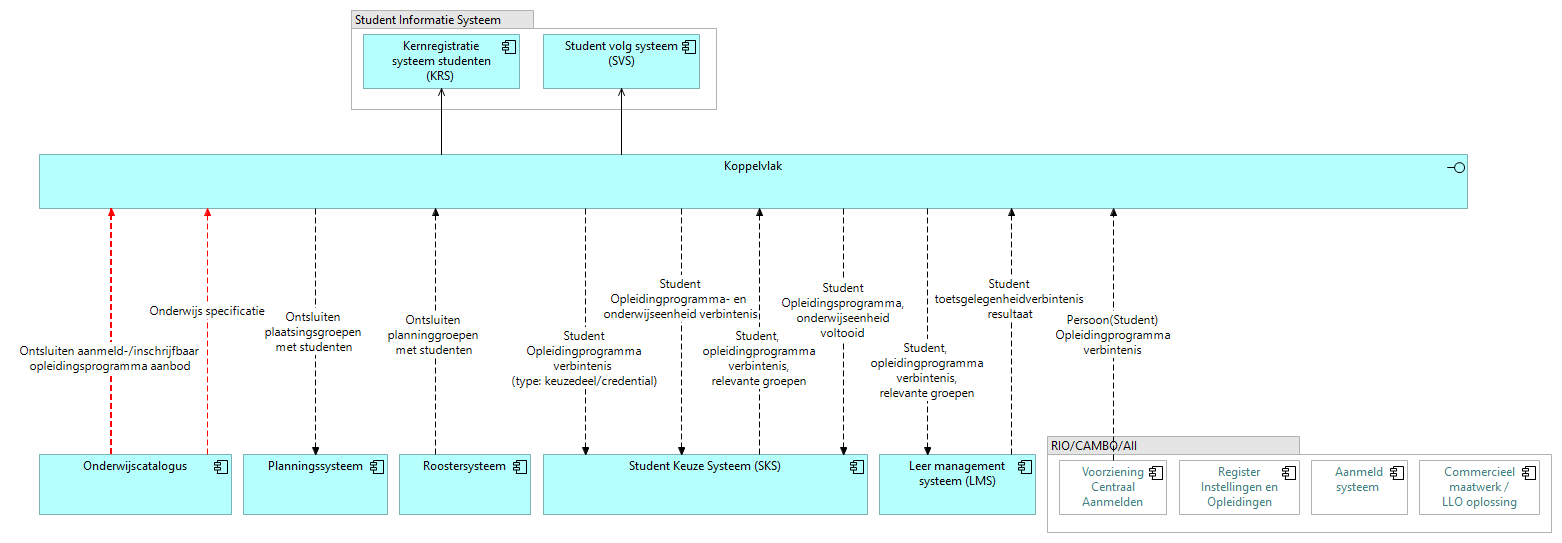
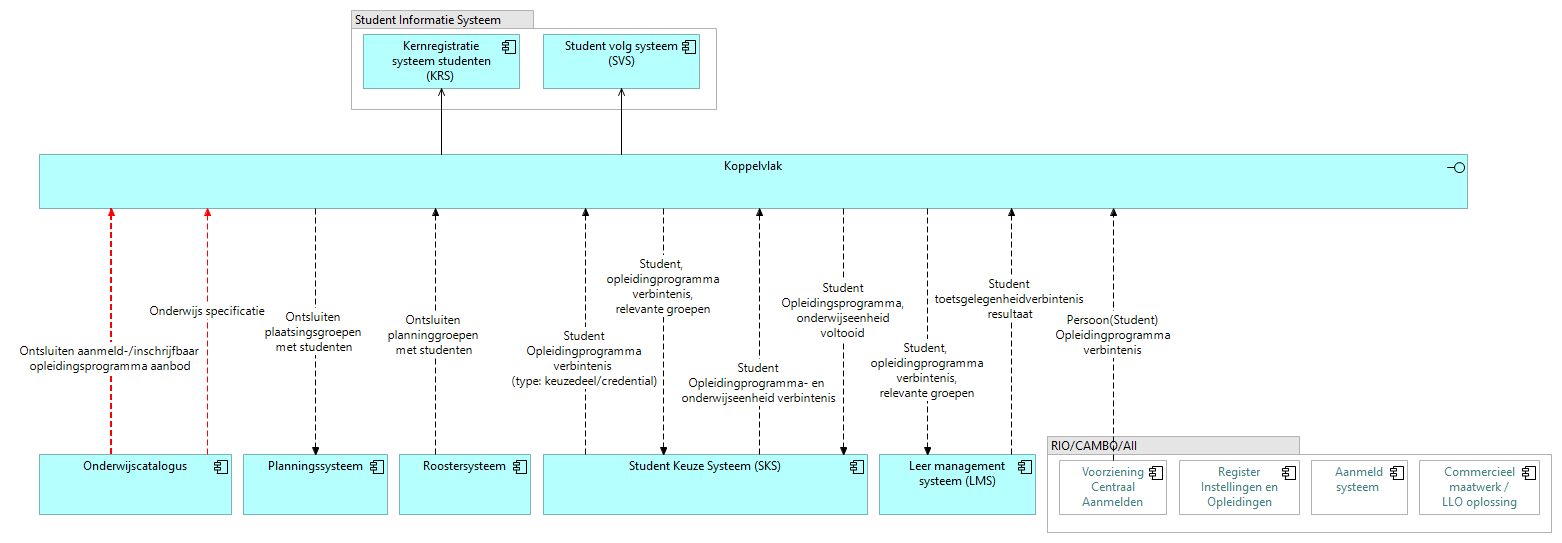
Koppelvlakspecificaties: SIS-plaat met de herstelde richtingen, en de teksten na de review
De SIS-koppelvlakplaat komt uit het herstelde model. De zin op de SKS-pagina beweert alleen gevolgd en afgerond; de SIS-pagina verwijst ernaar in plaats van haar te herhalen, met een naam voor het studentvolgsysteem. Bij de uitsnedeplaten staat dat de koppeling in v1.7 en v1.7a gelijk is.

Changed region(s): [[0.3688, 0.4715, 0.5224, 0.7366]]

diff --git a/Koppelvlakspecificaties/koppelvlakspecificatie.md b/Koppelvlakspecificaties/koppelvlakspecificatie.md
@@ -592,7 +592,7 @@ Het studentinformatiesysteem is hier de combinatie van het **kernregistratiesyst
 
 ![Koppelvlak van het studentinformatiesysteem op de hoofdplaat v1.7a](src/koppelvlak_sis_krs_svs_view_ihp_v1_7a.png)
 
-De view toont het koppelvlak van het studentinformatiesysteem op de informatiestromen-hoofdplaat v1.7a. Kernregistratie (KRS) en studievoortgang (SVS) maken er deel van uit. Het studentvolgsysteem meldt het studentkeuzesysteem welk opleidingsprogramma of welke onderwijseenheid de student heeft voltooid, zodat dat onderdeel niet opnieuw als keuze verschijnt.
+De view toont het koppelvlak van het studentinformatiesysteem op de informatiestromen-hoofdplaat v1.7a. Het kernregistratiesysteem (KRS) en het studentvolgsysteem (SVS) maken er deel van uit. Het studentvolgsysteem meldt afgeronde onderdelen aan het [studentkeuzesysteem](#371-koppelvlak).
 
 #### 3.4.2 Endpoints
 
@@ -656,7 +656,7 @@ Dit pakket specificeert geen koppeling met het studentkeuzesysteem, en levert er
 
 De view toont het koppelvlak van het studentkeuzesysteem: de optelsom van zijn koppelingen op de informatiestromen-hoofdplaat v1.7a.
 
-Het studentvolgsysteem meldt het studentkeuzesysteem welk opleidingsprogramma of welke onderwijseenheid de student heeft voltooid: al gevolgd en afgerond. Zo biedt het studentkeuzesysteem een voltooid onderdeel niet opnieuw als keuze aan. Een vrijstelling valt niet onder deze stroom.
+Het studentvolgsysteem meldt het studentkeuzesysteem welk opleidingsprogramma of welke onderwijseenheid de student heeft gevolgd en afgerond. Het studentkeuzesysteem laat een afgerond onderdeel daarna weg uit de keuzes. Deze stroom gaat alleen over afgeronde onderdelen; een vrijstelling hoort er niet bij.
 
 
 <!-- pagina-einde -->
@@ -680,7 +680,7 @@ Het interactiepatroon van deze koppeling: de systeem-naar-systeemberichten (mach
 
 ![Koppeling onderwijscatalogus naar planning en roostering op de hoofdplaat](src/highlight_oc_p_en_r_informatiestromen_hoofdplaat_v1_7.png)
 
-De uitsnede komt uit de informatiestromen-hoofdplaat v1.7 (richtinggevend; de legenda draagt nog "concept"), met deze koppeling gemarkeerd. De koppeling is in versie 1.7a niet veranderd. De koppelvlakken van beide componenten staan bij de [onderwijscatalogus](#32-onderwijscatalogus-oc) en het [planningssysteem](#33-planningssysteem-p).
+De uitsnede komt uit de informatiestromen-hoofdplaat v1.7 (richtinggevend; de legenda draagt nog "concept"), met deze koppeling gemarkeerd. Deze koppeling is in v1.7 en v1.7a gelijk. De koppelvlakken van beide componenten staan bij de [onderwijscatalogus](#32-onderwijscatalogus-oc) en het [planningssysteem](#33-planningssysteem-p).
 
 #### 4.1.2 Functionele eisen
 
@@ -989,7 +989,7 @@ Het interactiepatroon van deze koppeling: de systeem-naar-systeemberichten (mach
 
 ![Koppeling onderwijscatalogus naar het studentinformatiesysteem op de hoofdplaat](src/highlight_oc_sis_informatiestromen_hoofdplaat_v1_7.png)
 
-De uitsnede komt uit de informatiestromen-hoofdplaat v1.7 (richtinggevend; de legenda draagt nog "concept"), met deze koppeling gemarkeerd. De koppeling is in versie 1.7a niet veranderd. De koppelvlakken van beide componenten staan bij de [onderwijscatalogus](#32-onderwijscatalogus-oc) en het [studentinformatiesysteem](#34-studentinformatiesysteem-sis).
+De uitsnede komt uit de informatiestromen-hoofdplaat v1.7 (richtinggevend; de legenda draagt nog "concept"), met deze koppeling gemarkeerd. Deze koppeling is in v1.7 en v1.7a gelijk. De koppelvlakken van beide componenten staan bij de [onderwijscatalogus](#32-onderwijscatalogus-oc) en het [studentinformatiesysteem](#34-studentinformatiesysteem-sis).
 
 #### 4.2.2 Functionele eisen
 
@@ -1115,7 +1115,7 @@ Het interactiepatroon van deze koppeling: de systeem-naar-systeemberichten (mach
 
 ![Koppeling onderwijscatalogus naar het leermanagementsysteem op de hoofdplaat](src/highlight_oc_lms_informatiestromen_hoofdplaat_v1_7.png)
 
-De uitsnede komt uit de informatiestromen-hoofdplaat v1.7 (richtinggevend; de legenda draagt nog "concept"), met deze koppeling gemarkeerd. De koppeling is in versie 1.7a niet veranderd. De koppelvlakken van beide componenten staan bij de [onderwijscatalogus](#32-onderwijscatalogus-oc) en het [leermanagementsysteem](#35-leermanagementsysteem-lms).
+De uitsnede komt uit de informatiestromen-hoofdplaat v1.7 (richtinggevend; de legenda draagt nog "concept"), met deze koppeling gemarkeerd. Deze koppeling is in v1.7 en v1.7a gelijk. De koppelvlakken van beide componenten staan bij de [onderwijscatalogus](#32-onderwijscatalogus-oc) en het [leermanagementsysteem](#35-leermanagementsysteem-lms).
 
 #### 4.3.2 Functionele eisen
 

diff --git a/Koppelvlakspecificaties/Interactiepatronen/onderwijscatalogus-studentinformatiesysteem.md b/Koppelvlakspecificaties/Interactiepatronen/onderwijscatalogus-studentinformatiesysteem.md
@@ -6,7 +6,7 @@ Het interactiepatroon van deze koppeling: de systeem-naar-systeemberichten (mach
 
 ![Koppeling onderwijscatalogus naar het studentinformatiesysteem op de hoofdplaat](../src/highlight_oc_sis_informatiestromen_hoofdplaat_v1_7.png)
 
-De uitsnede komt uit de informatiestromen-hoofdplaat v1.7 (richtinggevend; de legenda draagt nog "concept"), met deze koppeling gemarkeerd. De koppeling is in versie 1.7a niet veranderd. De koppelvlakken van beide componenten staan bij de [onderwijscatalogus](../Applicatiecomponenten/onderwijscatalogus.md) en het [studentinformatiesysteem](../Applicatiecomponenten/studentinformatiesysteem.md).
+De uitsnede komt uit de informatiestromen-hoofdplaat v1.7 (richtinggevend; de legenda draagt nog "concept"), met deze koppeling gemarkeerd. Deze koppeling is in v1.7 en v1.7a gelijk. De koppelvlakken van beide componenten staan bij de [onderwijscatalogus](../Applicatiecomponenten/onderwijscatalogus.md) en het [studentinformatiesysteem](../Applicatiecomponenten/studentinformatiesysteem.md).
 
 ## Functionele eisen
 

diff --git a/Koppelvlakspecificaties/Interactiepatronen/onderwijscatalogus-leermanagementsysteem.md b/Koppelvlakspecificaties/Interactiepatronen/onderwijscatalogus-leermanagementsysteem.md
@@ -6,7 +6,7 @@ Het interactiepatroon van deze koppeling: de systeem-naar-systeemberichten (mach
 
 ![Koppeling onderwijscatalogus naar het leermanagementsysteem op de hoofdplaat](../src/highlight_oc_lms_informatiestromen_hoofdplaat_v1_7.png)
 
-De uitsnede komt uit de informatiestromen-hoofdplaat v1.7 (richtinggevend; de legenda draagt nog "concept"), met deze koppeling gemarkeerd. De koppeling is in versie 1.7a niet veranderd. De koppelvlakken van beide componenten staan bij de [onderwijscatalogus](../Applicatiecomponenten/onderwijscatalogus.md) en het [leermanagementsysteem](../Applicatiecomponenten/leermanagementsysteem.md).
+De uitsnede komt uit de informatiestromen-hoofdplaat v1.7 (richtinggevend; de legenda draagt nog "concept"), met deze koppeling gemarkeerd. Deze koppeling is in v1.7 en v1.7a gelijk. De koppelvlakken van beide componenten staan bij de [onderwijscatalogus](../Applicatiecomponenten/onderwijscatalogus.md) en het [leermanagementsysteem](../Applicatiecomponenten/leermanagementsysteem.md).
 
 ## Functionele eisen
 

diff --git a/Koppelvlakspecificaties/Interactiepatronen/onderwijscatalogus-planning-en-roostering.md b/Koppelvlakspecificaties/Interactiepatronen/onderwijscatalogus-planning-en-roostering.md
@@ -6,7 +6,7 @@ Het interactiepatroon van deze koppeling: de systeem-naar-systeemberichten (mach
 
 ![Koppeling onderwijscatalogus naar planning en roostering op de hoofdplaat](../src/highlight_oc_p_en_r_informatiestromen_hoofdplaat_v1_7.png)
 
-De uitsnede komt uit de informatiestromen-hoofdplaat v1.7 (richtinggevend; de legenda draagt nog "concept"), met deze koppeling gemarkeerd. De koppeling is in versie 1.7a niet veranderd. De koppelvlakken van beide componenten staan bij de [onderwijscatalogus](../Applicatiecomponenten/onderwijscatalogus.md) en het [planningssysteem](../Applicatiecomponenten/planningssysteem.md).
+De uitsnede komt uit de informatiestromen-hoofdplaat v1.7 (richtinggevend; de legenda draagt nog "concept"), met deze koppeling gemarkeerd. Deze koppeling is in v1.7 en v1.7a gelijk. De koppelvlakken van beide componenten staan bij de [onderwijscatalogus](../Applicatiecomponenten/onderwijscatalogus.md) en het [planningssysteem](../Applicatiecomponenten/planningssysteem.md).
 
 ## Functionele eisen
 

diff --git a/Koppelvlakspecificaties/Applicatiecomponenten/studentinformatiesysteem.md b/Koppelvlakspecificaties/Applicatiecomponenten/studentinformatiesysteem.md
@@ -6,7 +6,7 @@ Het studentinformatiesysteem is hier de combinatie van het **kernregistratiesyst
 
 ![Koppelvlak van het studentinformatiesysteem op de hoofdplaat v1.7a](../src/koppelvlak_sis_krs_svs_view_ihp_v1_7a.png)
 
-De view toont het koppelvlak van het studentinformatiesysteem op de informatiestromen-hoofdplaat v1.7a. Kernregistratie (KRS) en studievoortgang (SVS) maken er deel van uit. Het studentvolgsysteem meldt het studentkeuzesysteem welk opleidingsprogramma of welke onderwijseenheid de student heeft voltooid, zodat dat onderdeel niet opnieuw als keuze verschijnt.
+De view toont het koppelvlak van het studentinformatiesysteem op de informatiestromen-hoofdplaat v1.7a. Het kernregistratiesysteem (KRS) en het studentvolgsysteem (SVS) maken er deel van uit. Het studentvolgsysteem meldt afgeronde onderdelen aan het [studentkeuzesysteem](studentkeuzesysteem.md#koppelvlak).
 
 ## Endpoints
 

diff --git a/Koppelvlakspecificaties/Applicatiecomponenten/studentkeuzesysteem.md b/Koppelvlakspecificaties/Applicatiecomponenten/studentkeuzesysteem.md
@@ -10,4 +10,4 @@ Dit pakket specificeert geen koppeling met het studentkeuzesysteem, en levert er
 
 De view toont het koppelvlak van het studentkeuzesysteem: de optelsom van zijn koppelingen op de informatiestromen-hoofdplaat v1.7a.
 
-Het studentvolgsysteem meldt het studentkeuzesysteem welk opleidingsprogramma of welke onderwijseenheid de student heeft voltooid: al gevolgd en afgerond. Zo biedt het studentkeuzesysteem een voltooid onderdeel niet opnieuw als keuze aan. Een vrijstelling valt niet onder deze stroom.
+Het studentvolgsysteem meldt het studentkeuzesysteem welk opleidingsprogramma of welke onderwijseenheid de student heeft gevolgd en afgerond. Het studentkeuzesysteem laat een afgerond onderdeel daarna weg uit de keuzes. Deze stroom gaat alleen over afgeronde onderdelen; een vrijstelling hoort er niet bij.
